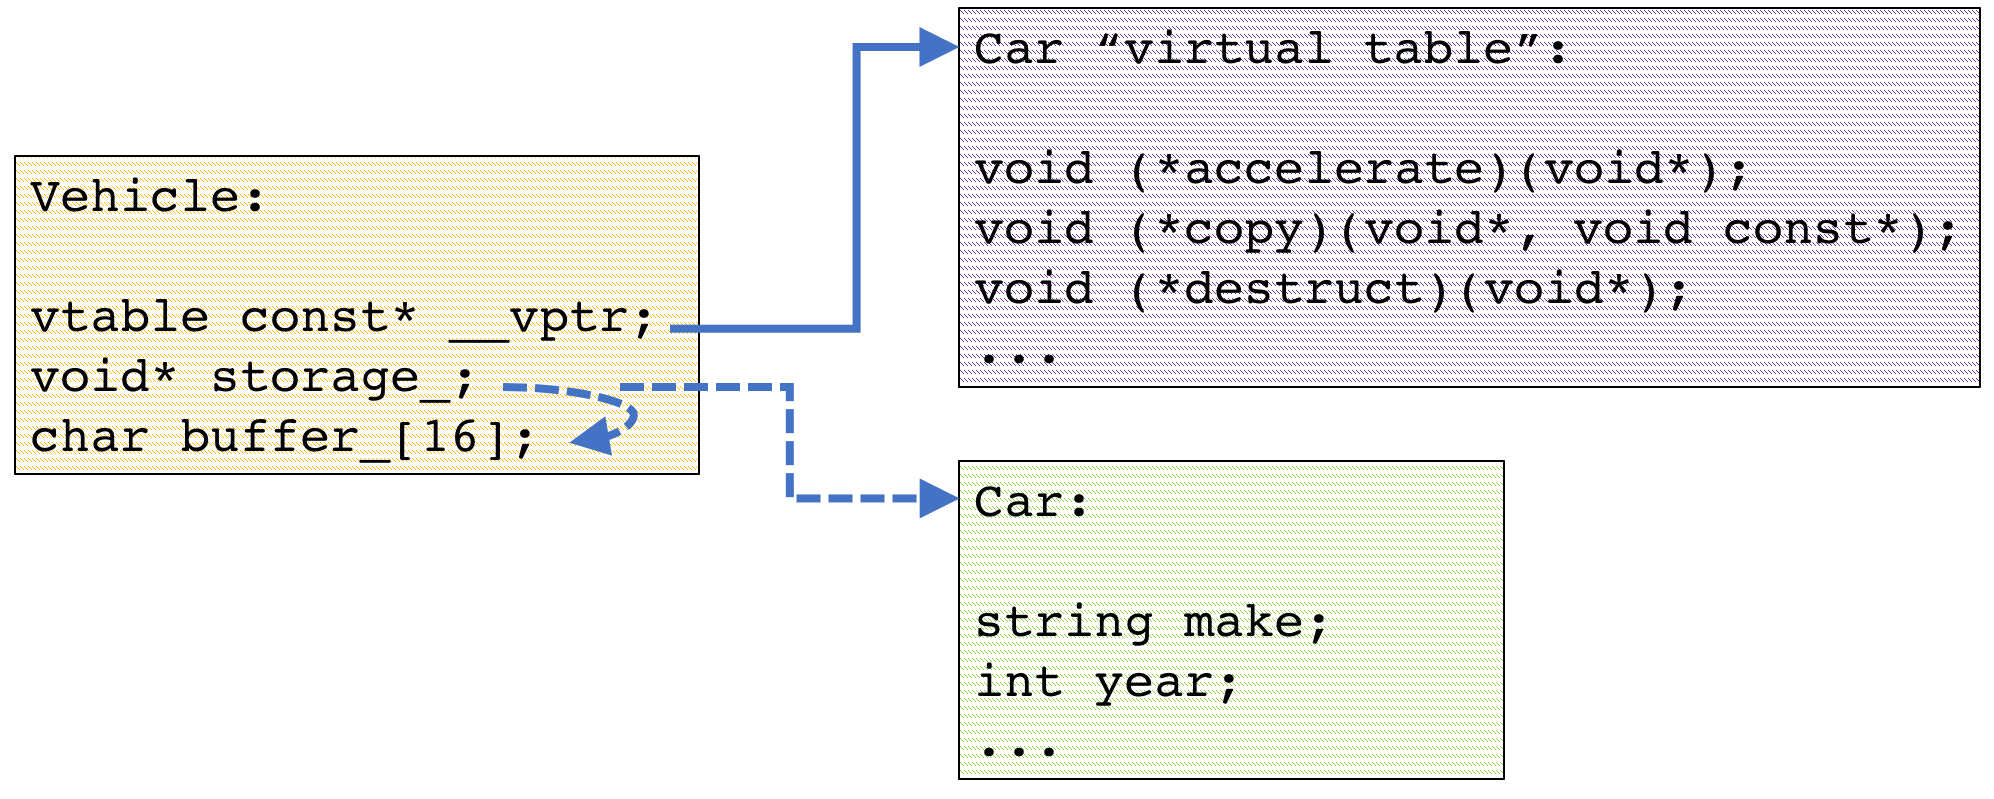
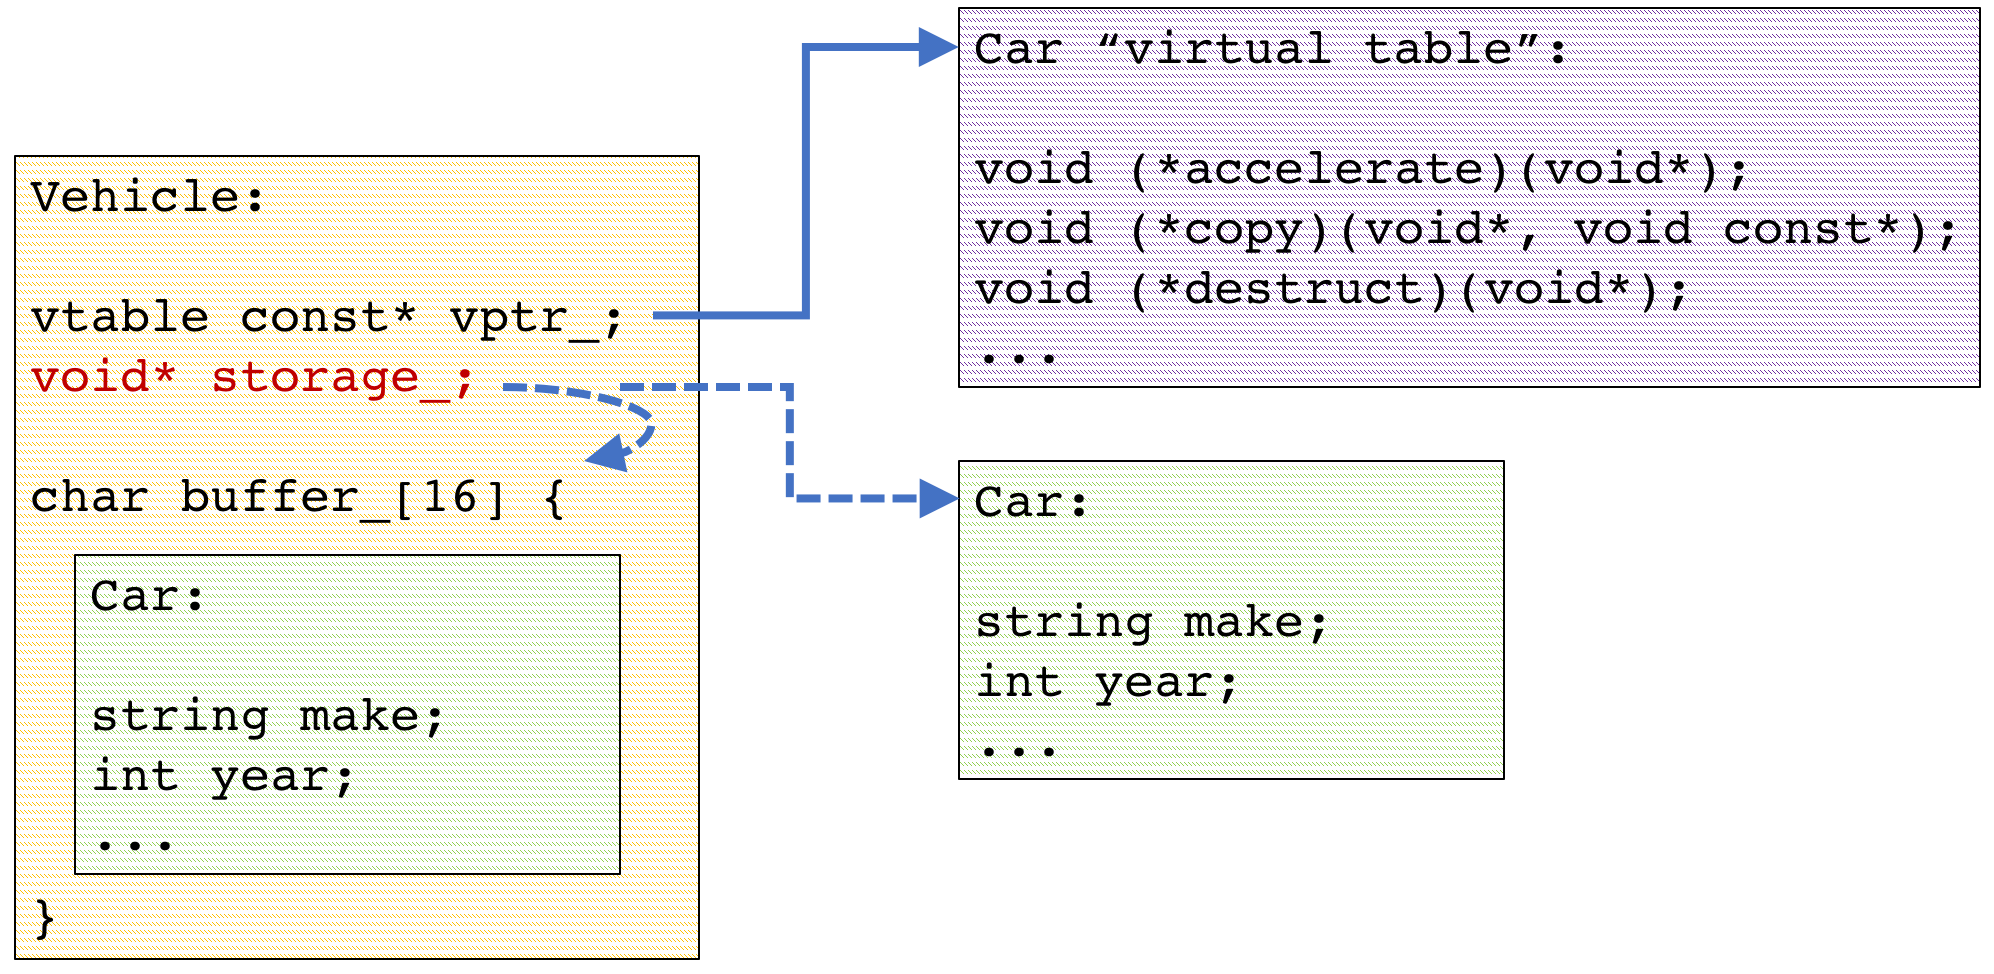
Show how SBO is implemented

Changed region(s): [[0.0, 0.0, 0.995, 0.9912]]

diff --git a/index.html b/index.html
@@ -87,7 +87,7 @@ int main() {
 
 ### But sometimes, they're not enough
 
-TODO: find place where they're not enough
+<!-- TODO: find place where they're not enough -->
 
 ====================
 
@@ -348,7 +348,7 @@ Vehicle getVehicle(std::istream& user) {
 
 <pre><code data-sample='code/naive.cpp#Vehicle'></code></pre>
 
-TODO: The following two slides are way too dense
+<!-- TODO: The following two slides are way too dense -->
 
 ----
 
@@ -371,9 +371,19 @@ TODO: The following two slides are way too dense
 
 ![Naive type erasure with a fat pointer](img/naive-split-ptr.png)
 
-TODO:
-- Show how it's implemented
-- Explain how it allows us to explore different storage and dispatching strategies
+<!-- TODO: Explain how it allows us to explore different storage and dispatching strategies -->
+
+----
+
+### How that's implemented
+
+<pre><code data-sample='code/naive-split-ptr.cpp#Vehicle'></code></pre>
+
+----
+
+### The vtable
+
+<pre><code data-sample='code/naive-split-ptr.cpp#vtable'></code></pre>
 
 ====================
 
@@ -381,9 +391,37 @@ TODO:
 
 ![Type erasure with SBO](img/sbo-split-ptr.png)
 
-TODO:
-- Show how it's implemented
-- Talk about strengths and weaknesses
+<!-- TODO: Talk about strengths and weaknesses -->
+
+----
+
+### How that's implemented
+
+<pre><code data-sample='code/sbo-split-ptr.cpp#Vehicle::members'></code></pre>
+
+----
+
+### Construction
+
+<pre><code data-sample='code/sbo-split-ptr.cpp#Vehicle::Vehicle'></code></pre>
+
+----
+
+### Destruction
+
+<pre><code data-sample='code/sbo-split-ptr.cpp#Vehicle::~Vehicle'></code></pre>
+
+----
+
+### Method dispatching
+
+<pre><code data-sample='code/sbo-split-ptr.cpp#Vehicle::accelerate'></code></pre>
+
+----
+
+### The vtable (nothing changed)
+
+<pre><code data-sample='code/naive-split-ptr.cpp#vtable'></code></pre>
 
 ----
 
@@ -399,13 +437,35 @@ TODO:
 
 ====================
 
+### Simple generalization
+
+![Type erasure with SBO and parameterized buffer size](img/sbo-split-ptr-generalized.png)
+
+----
+
+### Easy to implement
+
+<pre><code data-sample='code/sbo-split-ptr-generalized.cpp#Vehicle::members'></code></pre>
+
+----
+
+<pre><code data-sample='code/sbo-split-ptr-generalized.cpp#Vehicle::Vehicle'></code></pre>
+
+----
+
+### Everything else is the same
+
+====================
+
 ### Always-local storage
 
 ![Type erasure with local storage](img/local-split-ptr.png)
 
+<!--
 TODO:
 - Show how it's implemented
 - Talk about strenghts and weaknesses
+-->
 
 ====================
 
@@ -413,9 +473,11 @@ TODO:
 
 ![Type erasure with non-owning storage](img/ref-split-ptr.png)
 
+<!--
 TODO:
 - Show how it's implemented
 - Show how it can be used (e.g. `function_ref`)
+-->
 
 ====================
 
@@ -423,9 +485,11 @@ TODO:
 
 ![Type erasure with shared remote storage](img/shared-split-ptr.png)
 
+<!--
 TODO:
 - Show how it's implemented
 - Show some use cases (e.g. Sean Parent's `document`)
+-->
 
 ==============================================================================
 
@@ -437,9 +501,11 @@ TODO:
 
 ![vtable inlined in the type erased wrapper](img/vtable-fully-inlined.png)
 
+<!--
 TODO:
 - Show how this is implemented
 - Discuss when this might and might not be useful
+-->
 
 ====================
 
@@ -449,9 +515,16 @@ TODO:
 
 ==============================================================================
 
+### Policy-based approach
+
+- Storage policy
+- VTable policy
+
+==============================================================================
+
 ### A few examples using Dyno
 
-TODO: Show the gist of how these ideas work in Dyno
+<!-- TODO: Show the gist of how these ideas work in Dyno -->
 
 ====================
 

diff --git a/code/naive-split-ptr.cpp b/code/naive-split-ptr.cpp
@@ -1,43 +1,56 @@
 // Copyright Louis Dionne 2017
 // Distributed under the Boost Software License, Version 1.0.
 
+#include <cstddef>
 #include <cstdlib>
 #include <iostream>
 #include <string>
 #include <vector>
 
 
+// sample(vtable)
 struct vtable {
-  void (*accelerate)(void* __this);
-  void (*copy)(void* p, void const* other);
-  void (*dtor)(void* __this);
-  std::size_t sizeof_;
+  void (*accelerate)(void* this_);
+  void (*dtor)(void* this_);
+  void (*copy)(void* p, void const* other); // skip-sample
+  std::size_t sizeof_;                      // skip-sample
 };
 
 template <typename T>
 vtable const vtable_for = {
-  /* accelerate */ [](void* self) { static_cast<T*>(self)->accelerate(); },
-  /* copy */       [](void* p, void const* other) { new (p) T(*static_cast<T const*>(other)); },
-  /* ~T */         [](void* self) { static_cast<T*>(self)->~T(); },
-  /* sizeof_ */    sizeof(T)
-};
+  // accelerate()
+  [](void* this_) {
+    static_cast<T*>(this_)->accelerate();
+  },
 
+  // destructor
+  [](void* this_) {
+    static_cast<T*>(this_)->~T();
+  }
+  ,                                           // skip-sample
+  // copy-constructor                         // skip-sample
+  [](void* p, void const* other) {            // skip-sample
+    new (p) T(*static_cast<T const*>(other)); // skip-sample
+  },                                          // skip-sample
+  sizeof(T)                                   // skip-sample
+};
+// end-sample
+
+// sample(Vehicle)
 struct Vehicle {
   template <typename Any>
     // enabled only when vehicle.accelerate() is valid
   Vehicle(Any vehicle)
     : vptr_{&vtable_for<Any>}
     , impl_{std::malloc(sizeof(Any))}
-  {
-    new (impl_) Any{vehicle};
-  }
-
-  Vehicle(Vehicle const& other)
-    : vptr_{other.vptr_}
-    , impl_{std::malloc(other.vptr_->sizeof_)}
-  {
-    other.vptr_->copy(impl_, other.impl_);
-  }
+  { new (impl_) Any{vehicle}; }
+                                                      // skip-sample
+  Vehicle(Vehicle const& other)                       // skip-sample
+    : vptr_{other.vptr_}                              // skip-sample
+    , impl_{std::malloc(other.vptr_->sizeof_)}        // skip-sample
+  {                                                   // skip-sample
+    other.vptr_->copy(impl_, other.impl_);            // skip-sample
+  }                                                   // skip-sample
 
   void accelerate()
   { vptr_->accelerate(impl_); }
@@ -51,7 +64,7 @@ private:
   vtable const* vptr_;
   void* impl_;
 };
-
+// end-sample
 
 
 //////////////////////////////////////////////////////////////////////////////

diff --git a/code/sbo-split-ptr-generalized.cpp b/code/sbo-split-ptr-generalized.cpp
@@ -11,8 +11,8 @@
 struct vtable {
   void (*accelerate)(void* __this);
   void (*dtor)(void* __this);
-  void (*copy)(void* p, void const* other); // skip-sample
-  std::size_t sizeof_;                      // skip-sample
+  void (*copy)(void* p, void const* other);
+  std::size_t sizeof_;
 };
 
 template <typename T>
@@ -26,21 +26,22 @@ vtable const vtable_for = {
   [](void* this_) {
     static_cast<T*>(this_)->~T();
   }
-  ,                                           // skip-sample
-  // copy constructor                         // skip-sample
-  [](void* p, void const* other) {            // skip-sample
-    new (p) T(*static_cast<T const*>(other)); // skip-sample
-  },                                          // skip-sample
-  sizeof(T)                                   // skip-sample
+  ,
+  // copy constructor
+  [](void* p, void const* other) {
+    new (p) T(*static_cast<T const*>(other));
+  },
+  sizeof(T)
 };
 
 // sample(Vehicle::members)
+template <std::size_t N>
 struct Vehicle {
 private:
   vtable const* vptr_;
   union {
     void* ptr_;
-    std::aligned_storage_t<16> buffer_;
+    std::aligned_storage_t<N> buffer_;
   };
   bool on_heap_;
 // end-sample
@@ -52,7 +53,7 @@ public:
   Vehicle(Any vehicle)
     : vptr_{&vtable_for<Any>}
   {
-    if (sizeof(Any) > 16) {
+    if (sizeof(Any) > N) {
       on_heap_ = true;
       ptr_ = std::malloc(sizeof(Any));
       new (ptr_) Any{vehicle};
@@ -74,13 +75,10 @@ public:
     }
   }
 
-// sample(Vehicle::accelerate)
   void accelerate() {
     vptr_->accelerate(on_heap_ ? ptr_ : &buffer_);
   }
-// end-sample
 
-// sample(Vehicle::~Vehicle)
   ~Vehicle() {
     if (on_heap_) {
       vptr_->dtor(ptr_);
@@ -89,7 +87,6 @@ public:
       vptr_->dtor(&buffer_);
     }
   }
-// end-sample
 };
 
 
@@ -115,7 +112,7 @@ struct Plane {
 
 // sample(main)
 int main() {
-  std::vector<Vehicle> vehicles;
+  std::vector<Vehicle<16>> vehicles;
 
   vehicles.push_back(Car{"Audi", 2017});
   vehicles.push_back(Truck{"Chevrolet", 2015});
